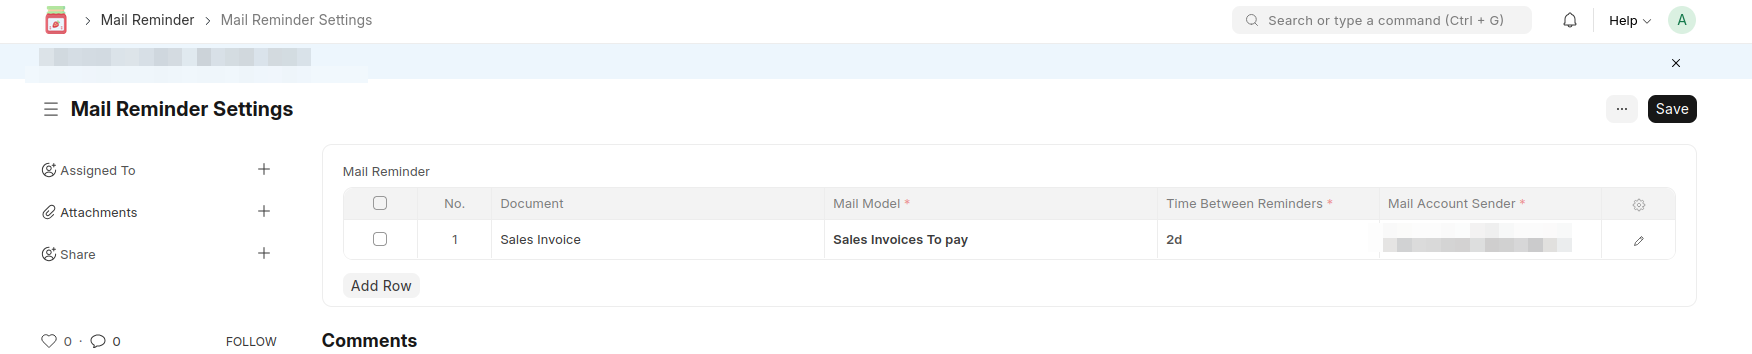
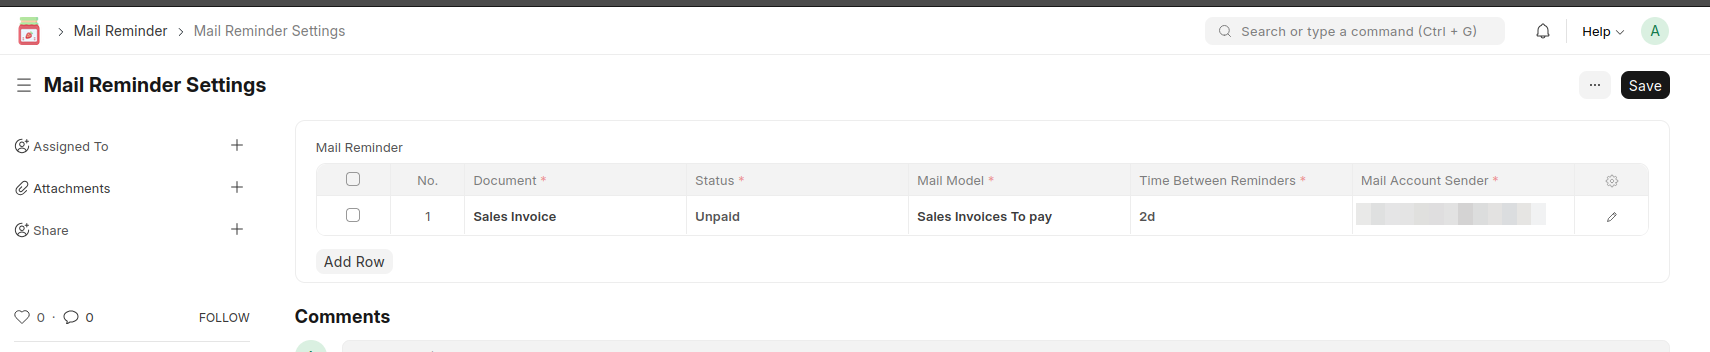
add onboarding module

diff --git a/mail_reminder/mail_reminder/doctype/mail_reminder_settings/mail_reminder_settings.js b/mail_reminder/mail_reminder/doctype/mail_reminder_settings/mail_reminder_settings.js
@@ -29,13 +29,12 @@ frappe.ui.form.on("Mail Reminder Settings", {
 
 frappe.ui.form.on("Mail Reminder Item", "document", function (frm, cdt, cdn) {
   let row_dt = frappe.get_doc(cdt, cdn);
-  for (let row_grid of frm.fields_dict["mail_reminder"].grid.grid_rows) {
-    if (row_grid.doc.idx === row_dt.idx) {
-      let status_field = row_grid?.docfields?.find(
-        (d) => d.fieldname === "status"
-      );
-      status_field["options"] = available_status[row_dt.document];
-      refresh_field("mail_reminder", row_dt.name);
-    }
-  }
+  frm.set_df_property(
+    "mail_reminder",
+    "options",
+    available_status[row_dt.document],
+    frm.docname,
+    "status",
+    row_dt.name
+  );
 });
